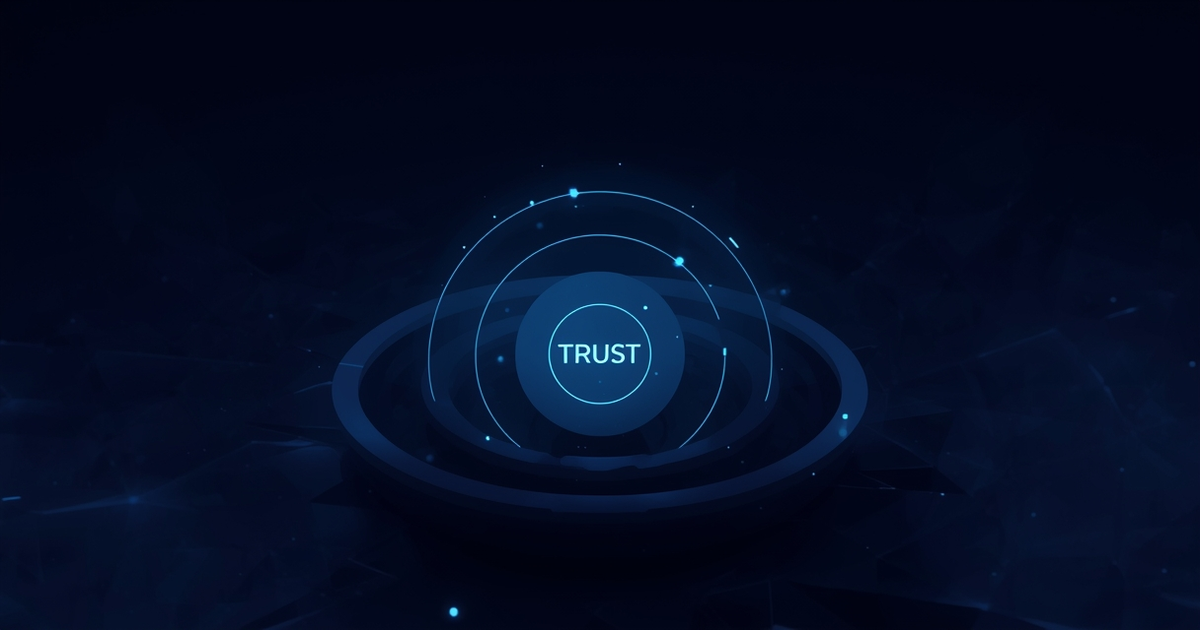
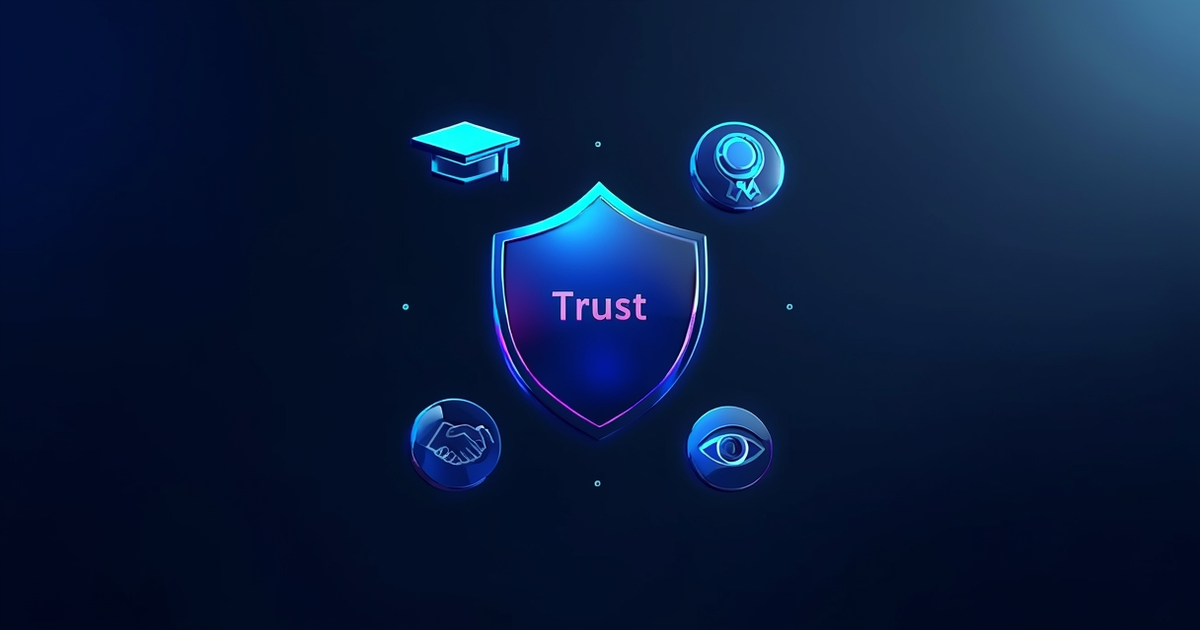
style: replace blog covers with 3D pictogram-style Leonardo AI generations
New covers feature glossy 3D icons, pictograms and concrete objects instead of
abstract shapes — speedometers, map pins, chain links, magnifying glass, shields,
coins, chat bubbles etc. Each cover clearly communicates the article topic.

diff --git a/scripts/generate-leonardo-covers.py b/scripts/generate-leonardo-covers.py
@@ -20,50 +20,50 @@ HEADERS = {
     'authorization': f'Bearer {API_KEY}'
 }
 
-BASE_STYLE = "Dark premium tech aesthetic, background gradient from near-black to deep navy with subtle blue undertone, abstract geometric and organic shapes, glowing neon accents, particle network connections, clean modern composition, professional blog header image, no people no faces no stock photo feel, no text on image, wide cinematic format, subtle depth of field, studio-quality rendering, minimalist with strategic negative space"
+BASE_STYLE = "Dark premium background gradient from deep navy #070B14 to near-black, cinematic wide format, professional blog header image, 3D rendered glossy objects and icons floating in space, volumetric lighting with soft colored glow, shallow depth of field with bokeh, studio-quality rendering, no text no words no letters no watermark, ultra clean composition with strategic negative space"
 
-NEGATIVE_PROMPT = "text, words, letters, watermark, signature, blurry, low quality, pixelated, noisy, oversaturated, cartoon, anime, childish, clipart, stock photo, generic, busy composition, cluttered, humans, faces, hands, photographic, realistic photography"
+NEGATIVE_PROMPT = "text, words, letters, numbers, watermark, signature, blurry, low quality, pixelated, noisy, oversaturated, cartoon, anime, childish, clipart, stock photo, generic, busy composition, cluttered, humans, faces, hands, fingers, ugly, deformed, disfigured"
 
 ARTICLES = [
     {
         'filename': 'geo-ai.png',
-        'prompt': f'{BASE_STYLE}. Central glowing purple and violet orb representing AI consciousness, surrounded by flowing conversation-like data streams curving from left to right, organic bioluminescent tendrils connecting floating data nodes, subtle chat bubble shapes formed by light particles, deep space feeling with scattered pink accent sparks, ethereal and futuristic'
+        'prompt': f'{BASE_STYLE}. Glossy 3D chat bubble icon in translucent purple glass hovering center-left, beside a glowing AI brain hologram with neural network connections in violet and magenta, small floating pictogram icons around them: magnifying glass, globe, sparkle star, all in frosted glass material, purple and pink neon ambient light, futuristic AI conversation theme'
     },
     {
         'filename': 'core-web-vitals.png',
-        'prompt': f'{BASE_STYLE}. Three distinct sinusoidal wave forms flowing horizontally in green cyan and teal, representing performance metrics, subtle grid overlay like performance dashboard, pulse points where waves intersect glow brighter, minimal ECG heartbeat monitor aesthetic applied to web performance, data visualization feel, clean analytical composition'
+        'prompt': f'{BASE_STYLE}. Three 3D speedometer gauges floating at different angles, each glowing in different color: green for fast, yellow for medium, red for slow, surrounded by floating performance pictogram icons: stopwatch, loading spinner, bar chart, lightning bolt, all in glossy frosted glass material, teal and cyan ambient glow, web performance dashboard feel'
     },
     {
         'filename': 'local-vs-national.png',
-        'prompt': f'{BASE_STYLE}. Split composition: left side tight concentrated cluster of warm orange glowing nodes representing local focus, right side vast expansive network of cool blue scattered nodes representing wide reach, luminous bridge of white-gold particles connects both clusters through center, the contrast between dense and spread is the visual story'
+        'prompt': f'{BASE_STYLE}. Left side: glossy 3D map pin icon in warm orange with a small building/shop pictogram on it, surrounded by close circular ripples. Right side: glossy 3D globe icon in cool blue with scattered small pin markers across surface. Center: glowing versus symbol or bridge connecting both sides, orange to blue gradient ambient light, geographic contrast theme'
     },
     {
         'filename': 'schema-markup.png',
-        'prompt': f'{BASE_STYLE}. Elegant hierarchical tree structure made of glowing cyan lines and nodes branching downward like inverted data tree or JSON structure, subtle curly bracket shapes formed by light trails framing the composition, each node luminous sphere connected by clean geometric lines, organized grid-like precision suggesting structured data, code-meets-art aesthetic'
+        'prompt': f'{BASE_STYLE}. Floating 3D code bracket icons in glossy cyan glass, curly braces and angle brackets arranged in a structured tree-like formation, small 3D pictogram icons scattered between: star rating, price tag, calendar, checkmark badge, all connected by thin glowing cyan lines forming a schema graph, cyan and white ambient light, structured data visualization'
     },
     {
         'filename': 'koszt-seo.png',
-        'prompt': f'{BASE_STYLE}. Ascending curve made of golden and amber glowing particles rising from bottom-left to upper-right suggesting growth and ROI, scattered data points along curve pulse with warm orange light, subtle concentric rings below like investment ripples, upward momentum and value accumulation, clean financial data visualization aesthetic, premium optimistic mood'
+        'prompt': f'{BASE_STYLE}. Glossy 3D golden coin stack growing upward left to right like ascending steps, beside a rising arrow chart in amber glass, floating pictogram icons around: calculator, percentage badge, rocket, trophy cup, all in warm gold frosted glass material, golden and amber ambient volumetric light, investment growth and ROI theme, premium optimistic mood'
     },
     {
         'filename': 'eeat.png',
-        'prompt': f'{BASE_STYLE}. Four concentric orbital rings in varying shades of deep blue and indigo slowly rotating like atomic model or trust layers, center core glows brightest representing Trust, each ring represents a layer of authority, small luminous particles orbit along each ring, cosmic and institutional, majestic deep blue palette'
+        'prompt': f'{BASE_STYLE}. Four glossy 3D shield icons arranged in a diamond formation, each in different shade of deep blue and indigo glass, center shield largest and brightest representing trust, surrounding pictogram icons: graduation cap for expertise, medal for authority, handshake for trust, eye for experience, all in frosted glass, deep blue and indigo ambient glow, authority and credibility theme'
     },
     {
         'filename': 'link-building.png',
-        'prompt': f'{BASE_STYLE}. Complex network graph with several large glowing orange hub nodes connected to dozens of smaller satellite nodes, most connections healthy luminous orange lines but three connections broken fractured with red warning glow and scattered particles representing toxic links, web-like organic structure, contrast between healthy and damaged connections'
+        'prompt': f'{BASE_STYLE}. Glossy 3D chain links in orange and gold floating and interconnected forming a web-like network, some links intact and glowing healthy orange, two links cracked and glowing warning red, floating pictogram icons around: anchor, external link arrow, broken chain, checkmark, all in frosted glass material, warm orange ambient light with red danger accents, link network theme'
     },
     {
         'filename': 'ai-overview.png',
-        'prompt': f'{BASE_STYLE}. Left-to-right transformation scene: left side rigid rectangular grid shapes representing traditional search results in muted blue, morphing through dynamic transition zone in center with swirling purple and orange energy, into organic flowing AI-generated shapes on right side, metamorphosis from structured to intelligent, dynamic energy'
+        'prompt': f'{BASE_STYLE}. Left side: classic 3D search bar with magnifying glass icon in muted blue glass. Right side: futuristic AI holographic display with sparkle effects in purple and orange glass. Between them: flowing transformation particles morphing from structured to organic, floating icons: robot head, search icon, sparkle wand, document, purple and orange gradient ambient light, search evolution theme'
     },
     {
         'filename': 'audyt-seo.png',
-        'prompt': f'{BASE_STYLE}. Circular radar scanner visualization with concentric rings in orange, bright scanning beam sweeps clockwise frozen mid-rotation, checkpoints along rings glow green for passed or amber for warning, center bright focal point, diagnostic scan aesthetic, grid overlay suggests systematic analysis, technical precision meets visual elegance'
+        'prompt': f'{BASE_STYLE}. Large 3D magnifying glass icon in glossy orange glass scanning over a floating website wireframe layout, revealing checkmarks and warning triangles where it focuses, surrounding floating pictogram icons: clipboard checklist, gear settings, bar chart analytics, shield security, all in frosted orange glass, warm orange scanning beam light effect, SEO audit diagnostic theme'
     },
     {
         'filename': 'google-moja-firma.png',
-        'prompt': f'{BASE_STYLE}. Central location pin abstraction made of green and blue light radiating concentric ripple waves outward like sonar or signal broadcast, ripples fade as they expand suggesting local reach, subtle map-grid pattern in deep background, small glowing nodes at edges of ripples represent local customers being reached, warm inviting despite tech aesthetic'
+        'prompt': f'{BASE_STYLE}. Central glossy 3D map location pin icon in green and teal glass, hovering above a subtle 3D city/storefront miniature scene, concentric ripple rings emanating outward from pin in green light, floating pictogram icons around: star rating, phone, clock hours, camera photo, all in frosted green glass material, green and teal ambient glow, local business visibility theme'
     },
 ]
 
